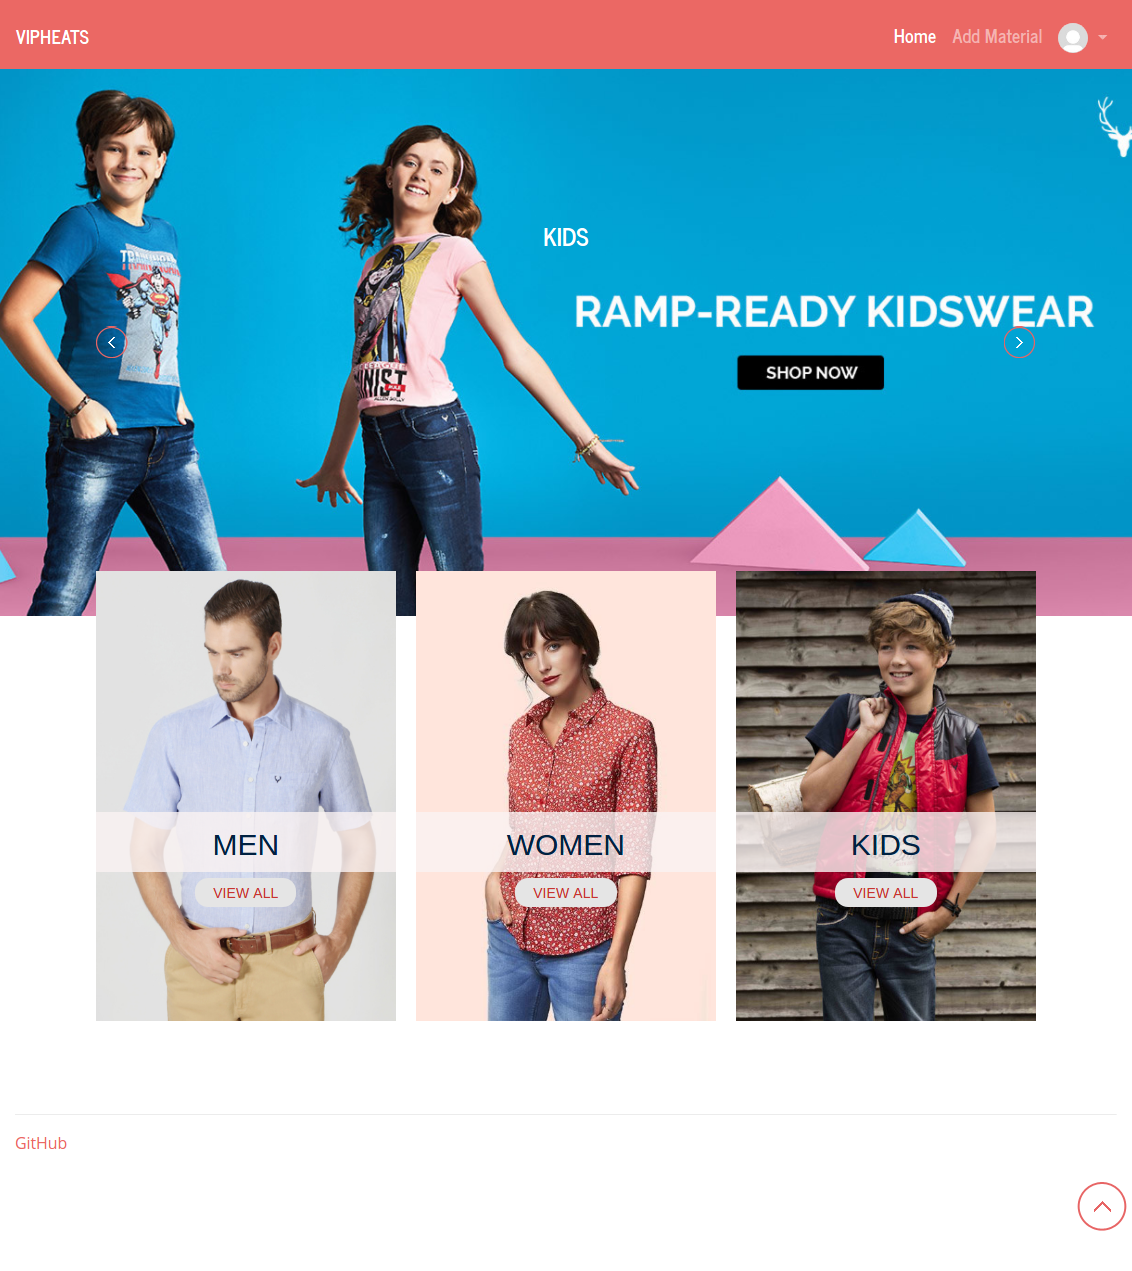
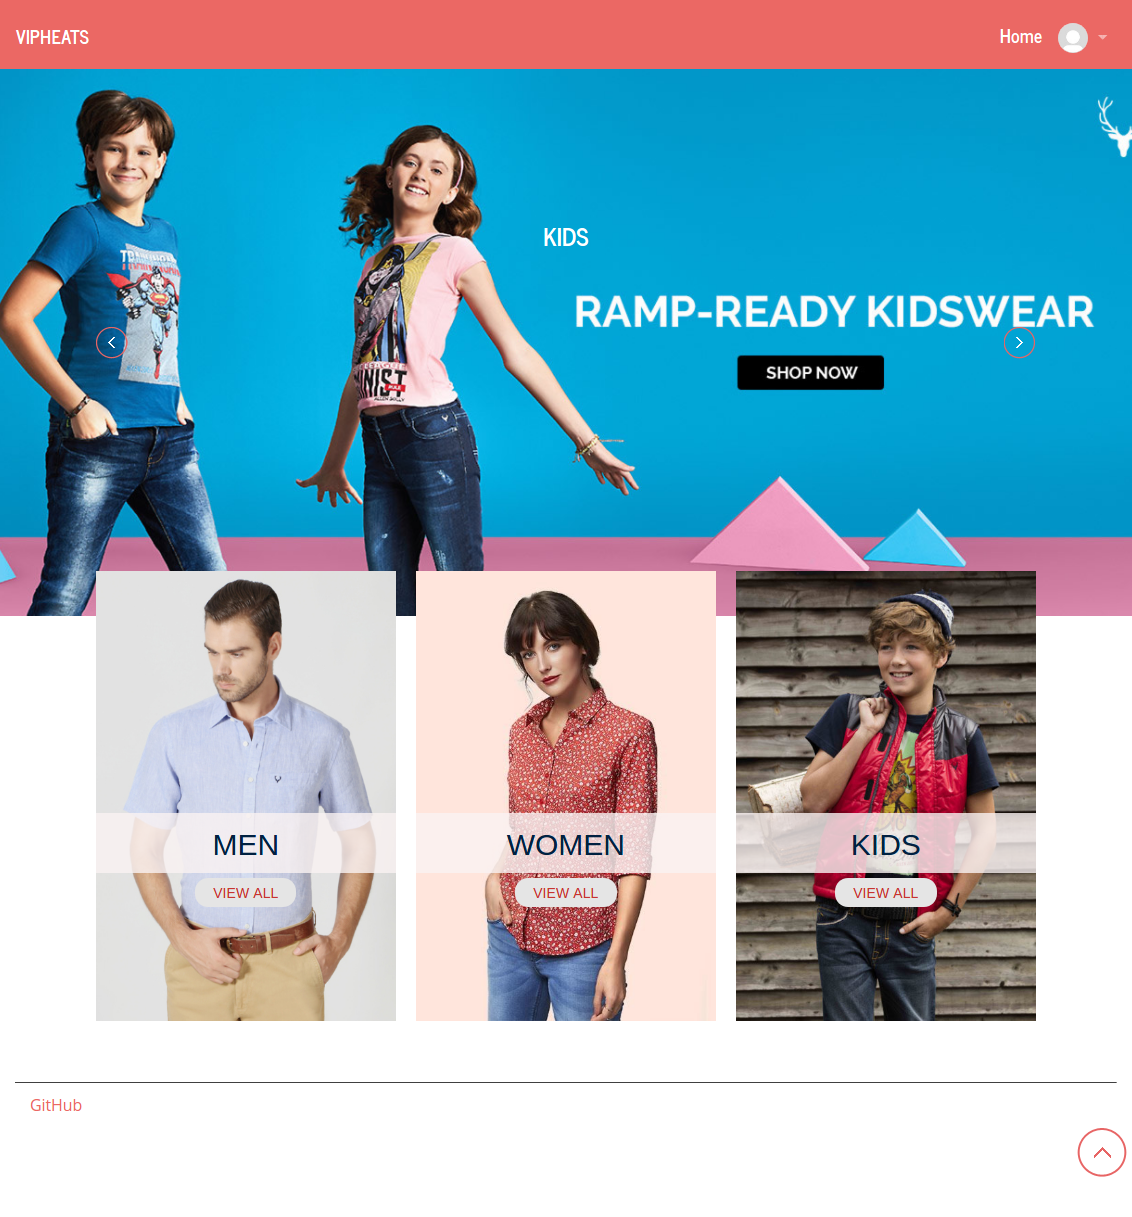
README

diff --git a/VIPheats/templates/layout.html b/VIPheats/templates/layout.html
@@ -53,18 +53,19 @@
       </nav>
       {% block content %}
       {% endblock %}
+      <div class="container-fluid">
       <footer id="footer">
          <div class="container-fluid">
             <div class="row">
                <div class="col-lg-12">
-                  <hr>
-                  <ul class="list-unstyled">
+                  <ul class="list-unstyled" style="margin-top: 10px;">
                      <li><a href="https://github.com/Jaison30/DjangoWebApplication">GitHub</a></li>
                   </ul>
                </div>
             </div>
          </div>
       </footer>
+      </div>
       <script src="{% static 'js/jquery.min.js' %}?rand={{rand}}"></script>
       <script src="{% static 'js/bootstrap.min.js' %}?rand={{rand}}"></script>
       <script src="{% static 'js/custom.js' %}?rand={{rand}}"></script>

diff --git a/VIPheats/static/css/custom.css b/VIPheats/static/css/custom.css
@@ -115,7 +115,8 @@ body>.navbar-transparent .navbar-nav>.open>a {
     margin-bottom: 10px;
 }
 #footer {
-    margin:2em 0;
+    margin:1em 0;
+    border-top: 1px solid #000;
 }
 #footer li {
     float: left;

diff --git a/VIPheats/superadmin/migrations/0001_initial.py b/VIPheats/superadmin/migrations/0001_initial.py
@@ -1,0 +1,36 @@
+# -*- coding: utf-8 -*-
+# Generated by Django 1.11.28 on 2020-07-02 10:26
+from __future__ import unicode_literals
+
+from django.db import migrations, models
+import django.db.models.deletion
+
+
+class Migration(migrations.Migration):
+
+    initial = True
+
+    dependencies = [
+    ]
+
+    operations = [
+        migrations.CreateModel(
+            name='Category',
+            fields=[
+                ('id', models.AutoField(auto_created=True, primary_key=True, serialize=False, verbose_name='ID')),
+                ('name', models.CharField(max_length=50)),
+            ],
+        ),
+        migrations.CreateModel(
+            name='Materials',
+            fields=[
+                ('id', models.AutoField(auto_created=True, primary_key=True, serialize=False, verbose_name='ID')),
+                ('name', models.CharField(max_length=50)),
+                ('price', models.IntegerField()),
+                ('created_at', models.DateTimeField(auto_now_add=True)),
+                ('description', models.TextField()),
+                ('image', models.FileField(upload_to='static/images')),
+                ('category', models.ForeignKey(on_delete=django.db.models.deletion.CASCADE, to='superadmin.Category')),
+            ],
+        ),
+    ]

diff --git a/README.md b/README.md
@@ -7,7 +7,11 @@
 
 This app is for view list of cloth materials with user authentication where admin user can only add material details to the app.
 
+## Run 
+
+python manage.py migrate
 
 
+python manage.py runserver
 
 
